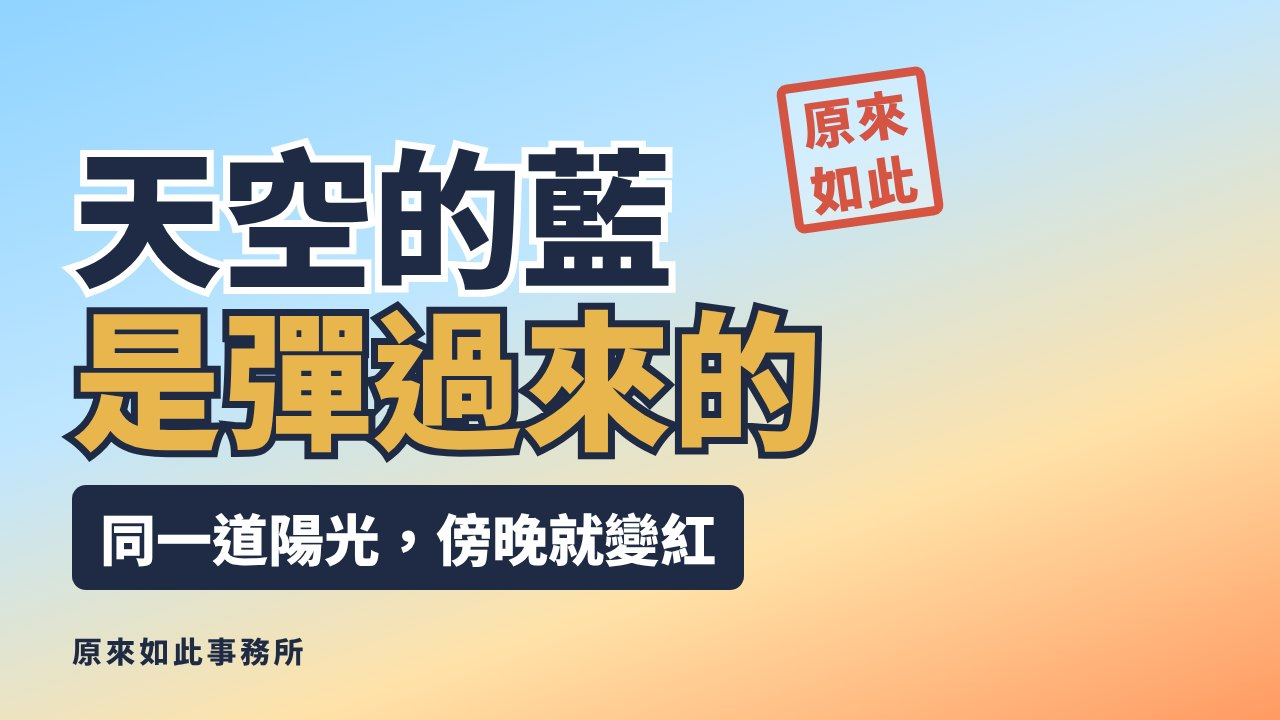
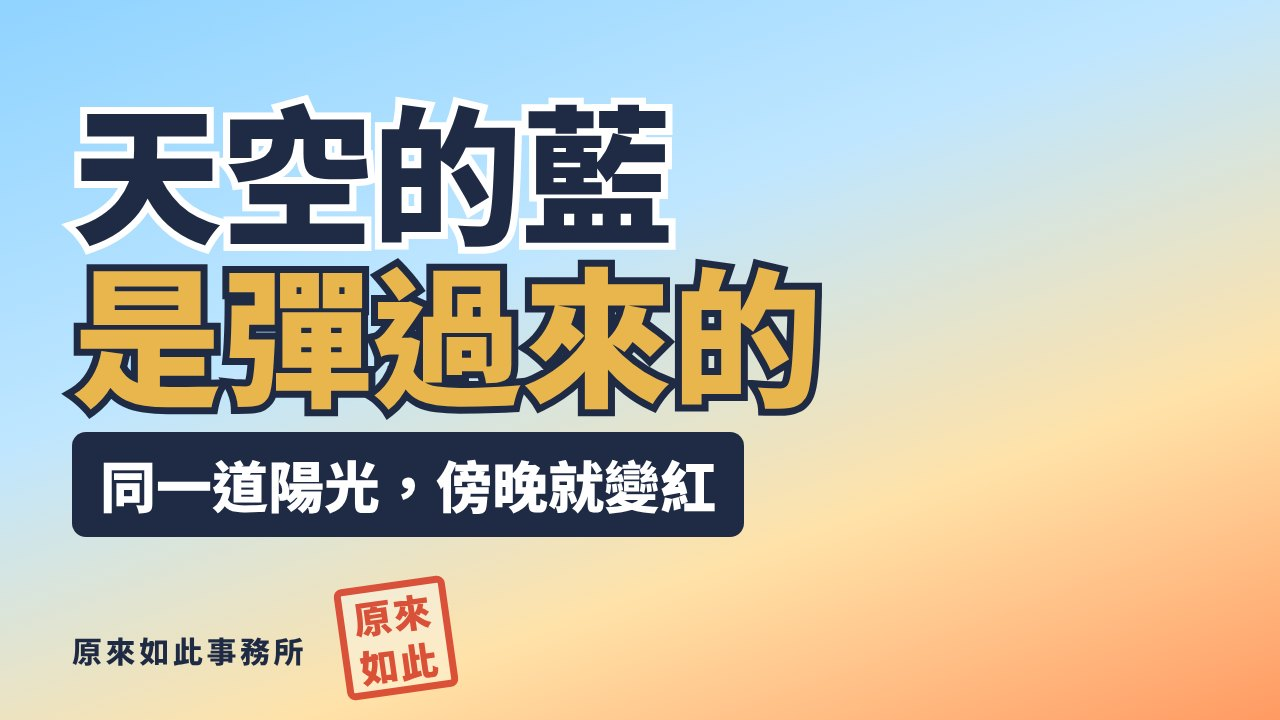
fix(video): 原來如此印章移到左下、副標一行，AI 劇標題平均斷行
用正式出圖程式畫極端情況時找到的問題：
- 原來如此的紅印章在字欄右上，第一行 5 字以上、英文標題或 subject: "right" 的圖都會被它蓋住；
  改放左下、系列字樣旁邊（112px），字欄底部留 160px，大字框兩行（330px）。
- 兩行的副標色塊會撞到系列字樣（出圖程式報錯）；副標改成一行，太長就縮字。
- AI 劇 7 字標題斷成 5＋2；改用 text-wrap: balance。
- 樣張補上長標題、英文版與 subject: "right"。

Claude-Session: https://claude.ai/code/session_01TWCDv3Zem5gnJoAHTwKiP4

Changed region(s): [[0.0312, 0.1222, 0.6562, 0.9778], [0.5938, 0.0917, 0.75, 0.3361]]

diff --git a/docs/videos/thumbnail-looks-20261111/README.md b/docs/videos/thumbnail-looks-20261111/README.md
@@ -1,12 +1,18 @@
 # 縮圖新版樣張（2026-11-11）
 
-站主看過樣張後定的兩種新版型，這四張是用 `tools/video/render/browser.mjs` 加 `templates.mjs` 的 `thumbnailHtml` 實際畫出來的（票 `tasks/open/2026-11-11-bright-explainer-and-drama-thumbnails.md`）。
+站主看過樣張後定的兩種新版型，這幾張是用 `tools/video/render/browser.mjs` 加 `templates.mjs` 的 `thumbnailHtml` 實際畫出來的（票 `tasks/open/2026-11-11-bright-explainer-and-drama-thumbnails.md`）。
 
 | 檔案 | 版型 | 說明 |
 | --- | --- | --- |
 | `drama-zhong-tian-qu-qi-e003.jpg` | AI 劇 layout `f` | 滿版關鍵影格、下三分之一黃字黑邊大字、左上種田橘色劇名條、右上 MOKAAIR |
 | `drama-tai-nainai-e018.jpg` | AI 劇 layout `f` | 同上，祖媽紅色劇名條；含淚特寫是這個版型要的那種臉 |
-| `sothatswhy-p14-no-keyframe.jpg` | 原來如此亮底 | 沒有關鍵影格：天藍到夕陽橘漸層、墨藍白邊大字、芥末黃強調、墨藍副標色塊、紅印章 |
+| `drama-long-headline-balanced.jpg` | AI 劇 layout `f` | 7 字標題平均斷成兩行（聘禮是／三塊肥皂），不會斷成 5＋2 |
+| `drama-en.jpg` | AI 劇 layout `f` | 英文版：劇名條與標題都換成譯文，長字自動縮 |
+| `sothatswhy-p14-no-keyframe.jpg` | 原來如此亮底 | 沒有關鍵影格：天藍到夕陽橘漸層、墨藍白邊大字、芥末黃強調、墨藍副標色塊 |
 | `sothatswhy-over-a-keyframe.jpg` | 原來如此亮底 | 鋪在關鍵影格上：字那側奶油色遮罩。示範用的底圖是祖媽 c14；主體在中間時會被字壓到，正式出圖用主體在右側的鏡頭，或 `data.subject: "right"` |
+| `sothatswhy-subject-right.jpg` | 原來如此亮底 | `data.subject: "right"`：圖縮到右側 38%，字與人分開 |
+| `sothatswhy-en.jpg` | 原來如此亮底 | 英文版：三行內排得下，副標一行，太長就縮字 |
+
+紅色「原來如此」印章放在左下、系列字樣旁邊：放在字欄右上時，第一行 5 個字以上或英文標題會被它蓋住，圖縮到右側時也會蓋到圖。
 
 底圖：種田 `s33`、祖媽 `c14` 取自站主雲端硬碟的製作檔。種田這張表情偏平，正式挑 `data.shot` 時選情緒最強的臉。

diff --git a/tasks/open/2026-11-11-bright-explainer-and-drama-thumbnails.md b/tasks/open/2026-11-11-bright-explainer-and-drama-thumbnails.md
@@ -77,5 +77,12 @@ Render any 種田 or 祖媽 episode and any `sothatswhy-` episode and look at `t
   10+ days stale (2026-10-14 to 2026-11-01) with no activity.
 - Layout and CSS are not in the visual hash, so approved storyboards and cuts stay valid; the
   thumbnail key follows the HTML, so the next render redraws the thumbnail in the new look.
+- Second pass (edge cases rendered through the real renderer): the stamp at the column's top
+  right covered a 5-character first line, every English headline, and the picture under
+  `subject: "right"`, so it moved beside the series' name at the bottom left (112 px); the column
+  keeps 160 px clear at the bottom, the headline box is two lines (330 px, `SERIES_THUMB_HEADLINE`),
+  and the sub line stays on one line (fitText shrinks it) — before, a two-line sub plate ran into
+  the series' name and the renderer reported it. Drama headlines use `text-wrap: balance`, so seven
+  characters break 3+4, not 5+2.
 - 種田 e003's chosen keyframe has a calm face; the look needs the most expressive shot — pick
   `data.shot` for the face, not the scene.
